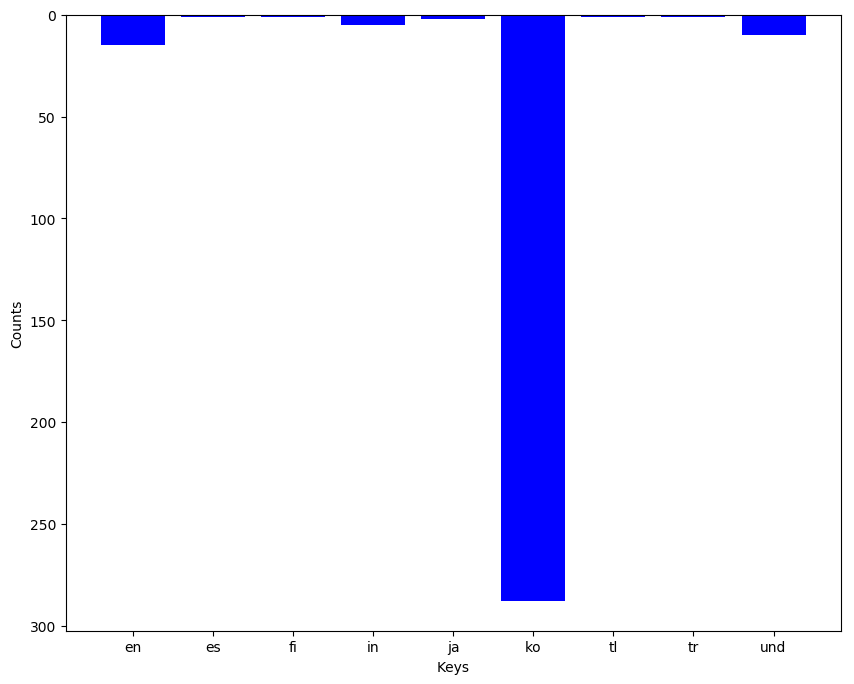
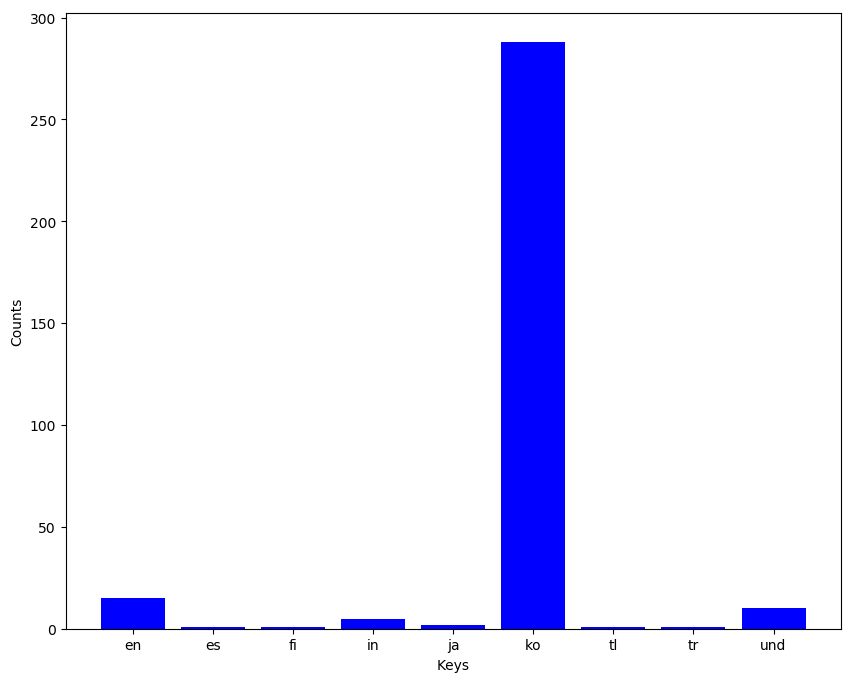
test

diff --git a/src/visualize.py b/src/visualize.py
@@ -28,7 +28,7 @@ def create_bar_graph(data, file_name):
     plt.bar(keys, values,  color='blue')
     plt.ylabel('Counts')
     plt.xlabel('Keys')
-    plt.gca().invert_yaxis()
+    
     plt.savefig(f'{args.output_filename}.png', bbox_inches='tight')
     plt.close()
 
